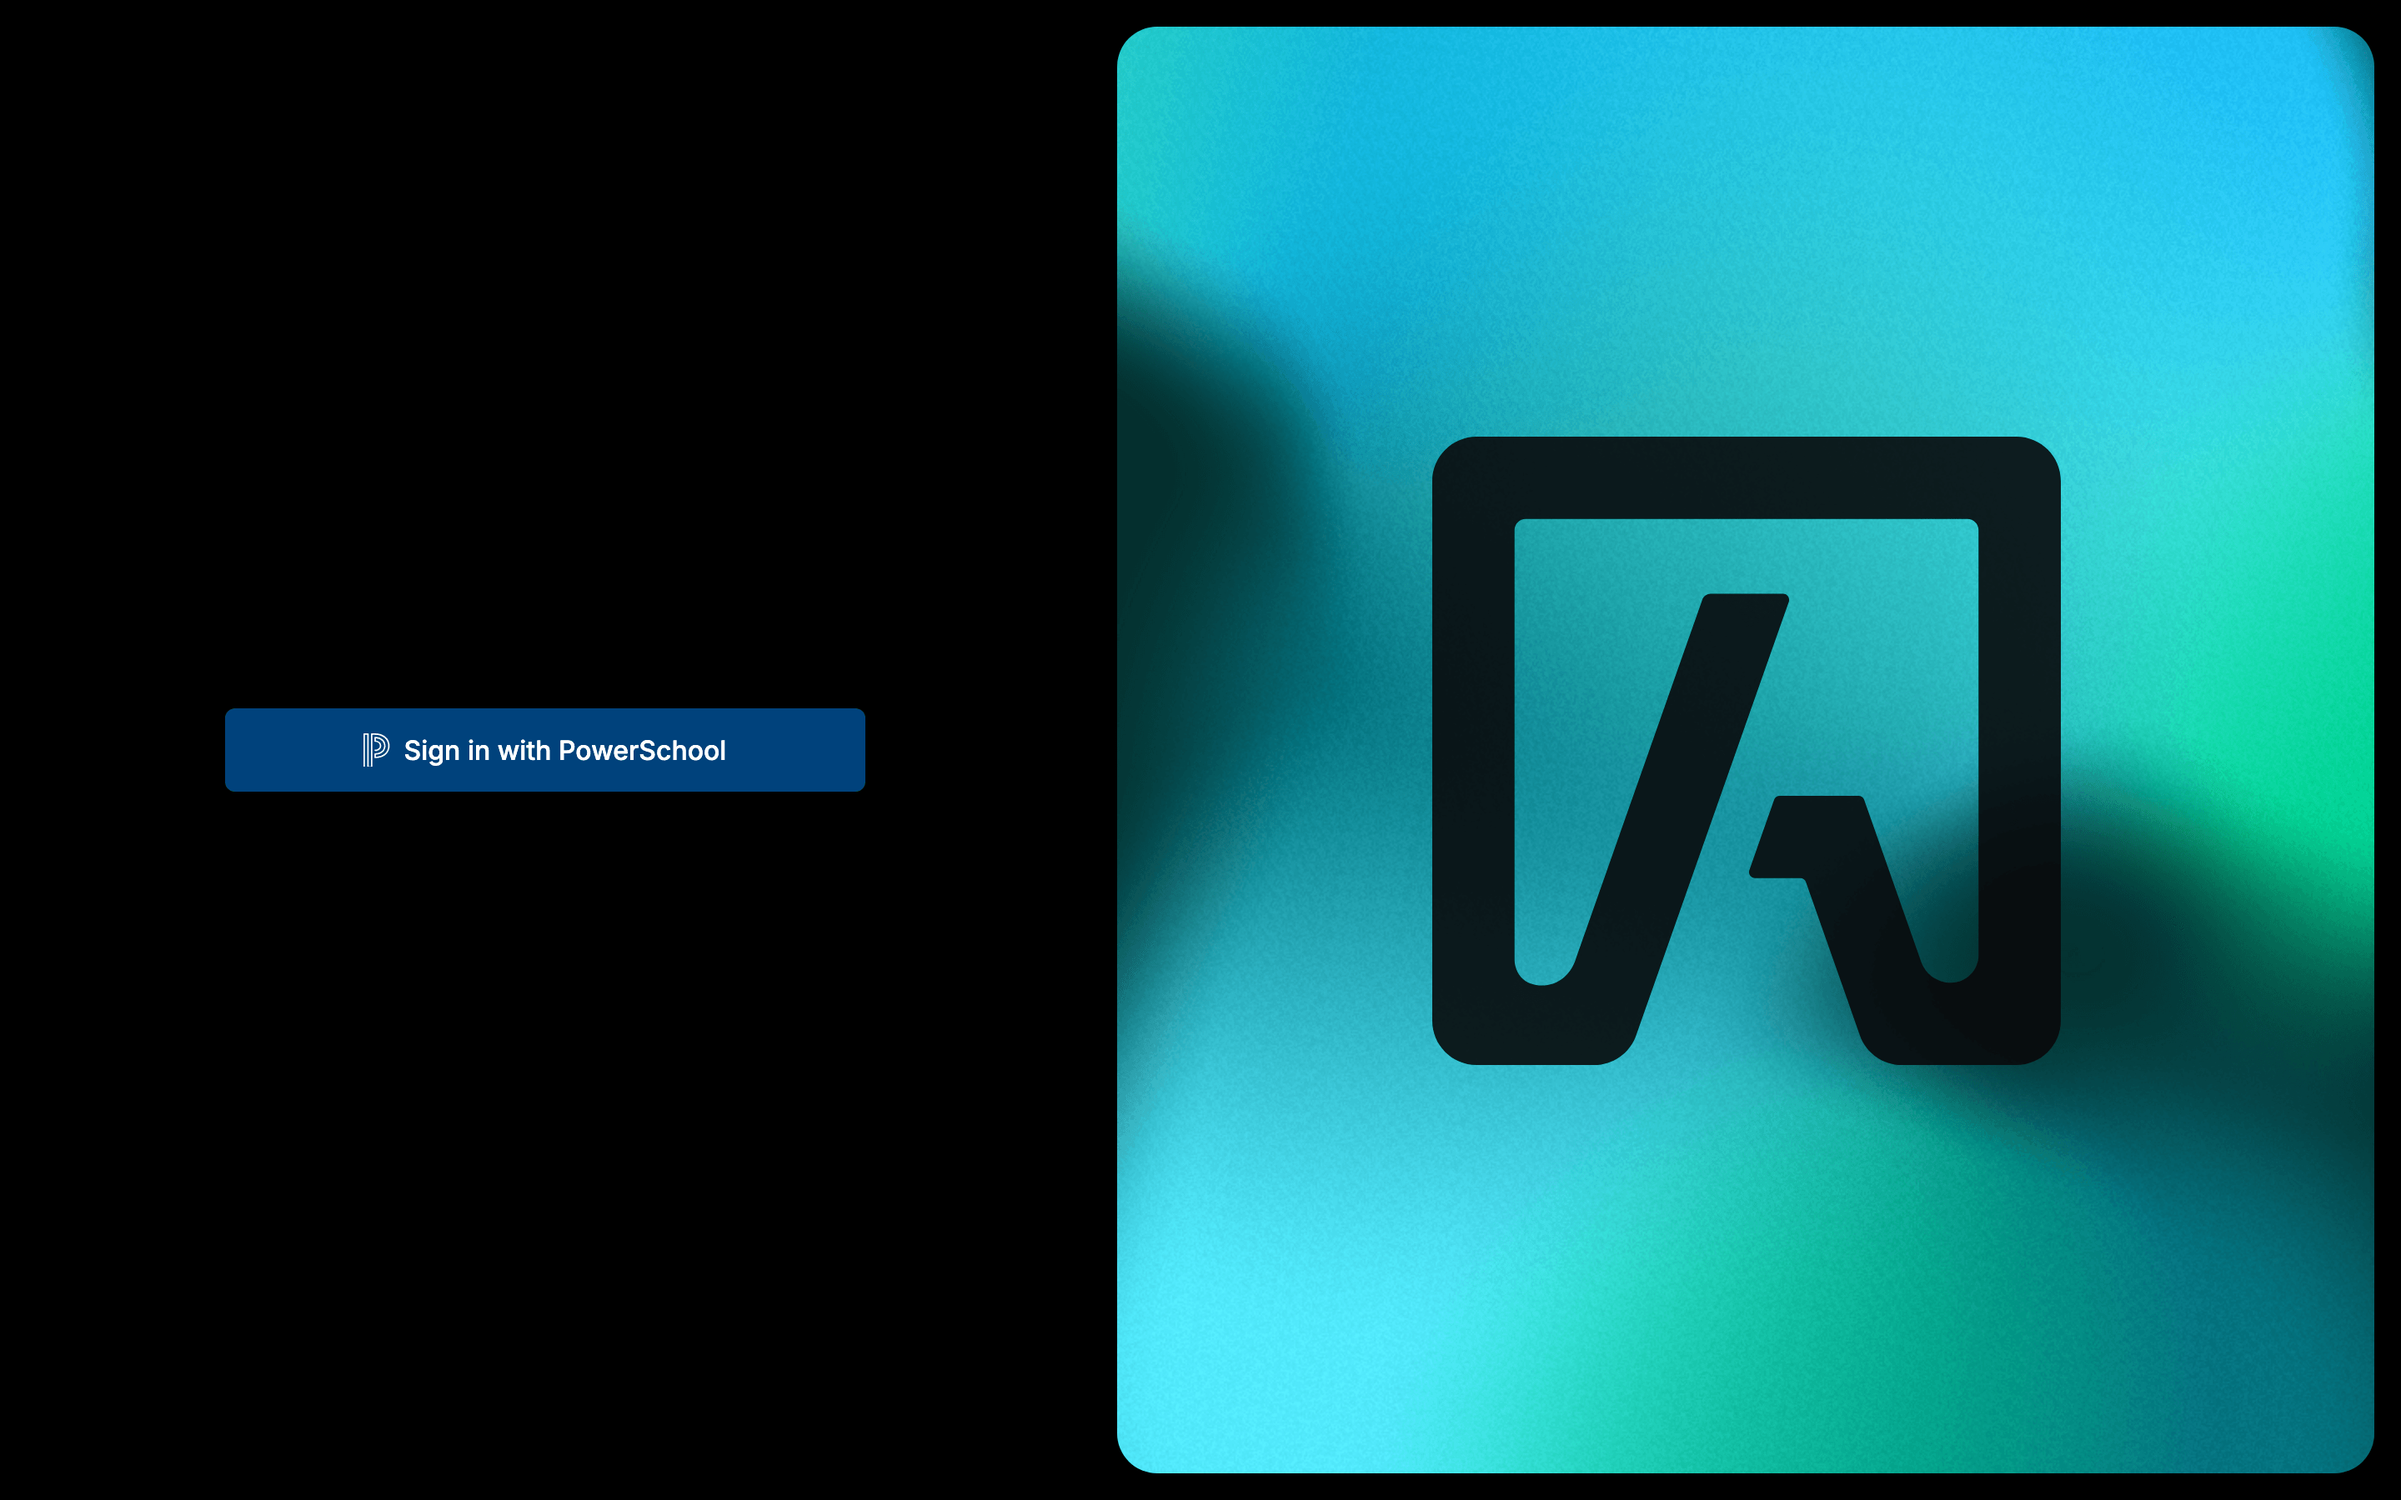
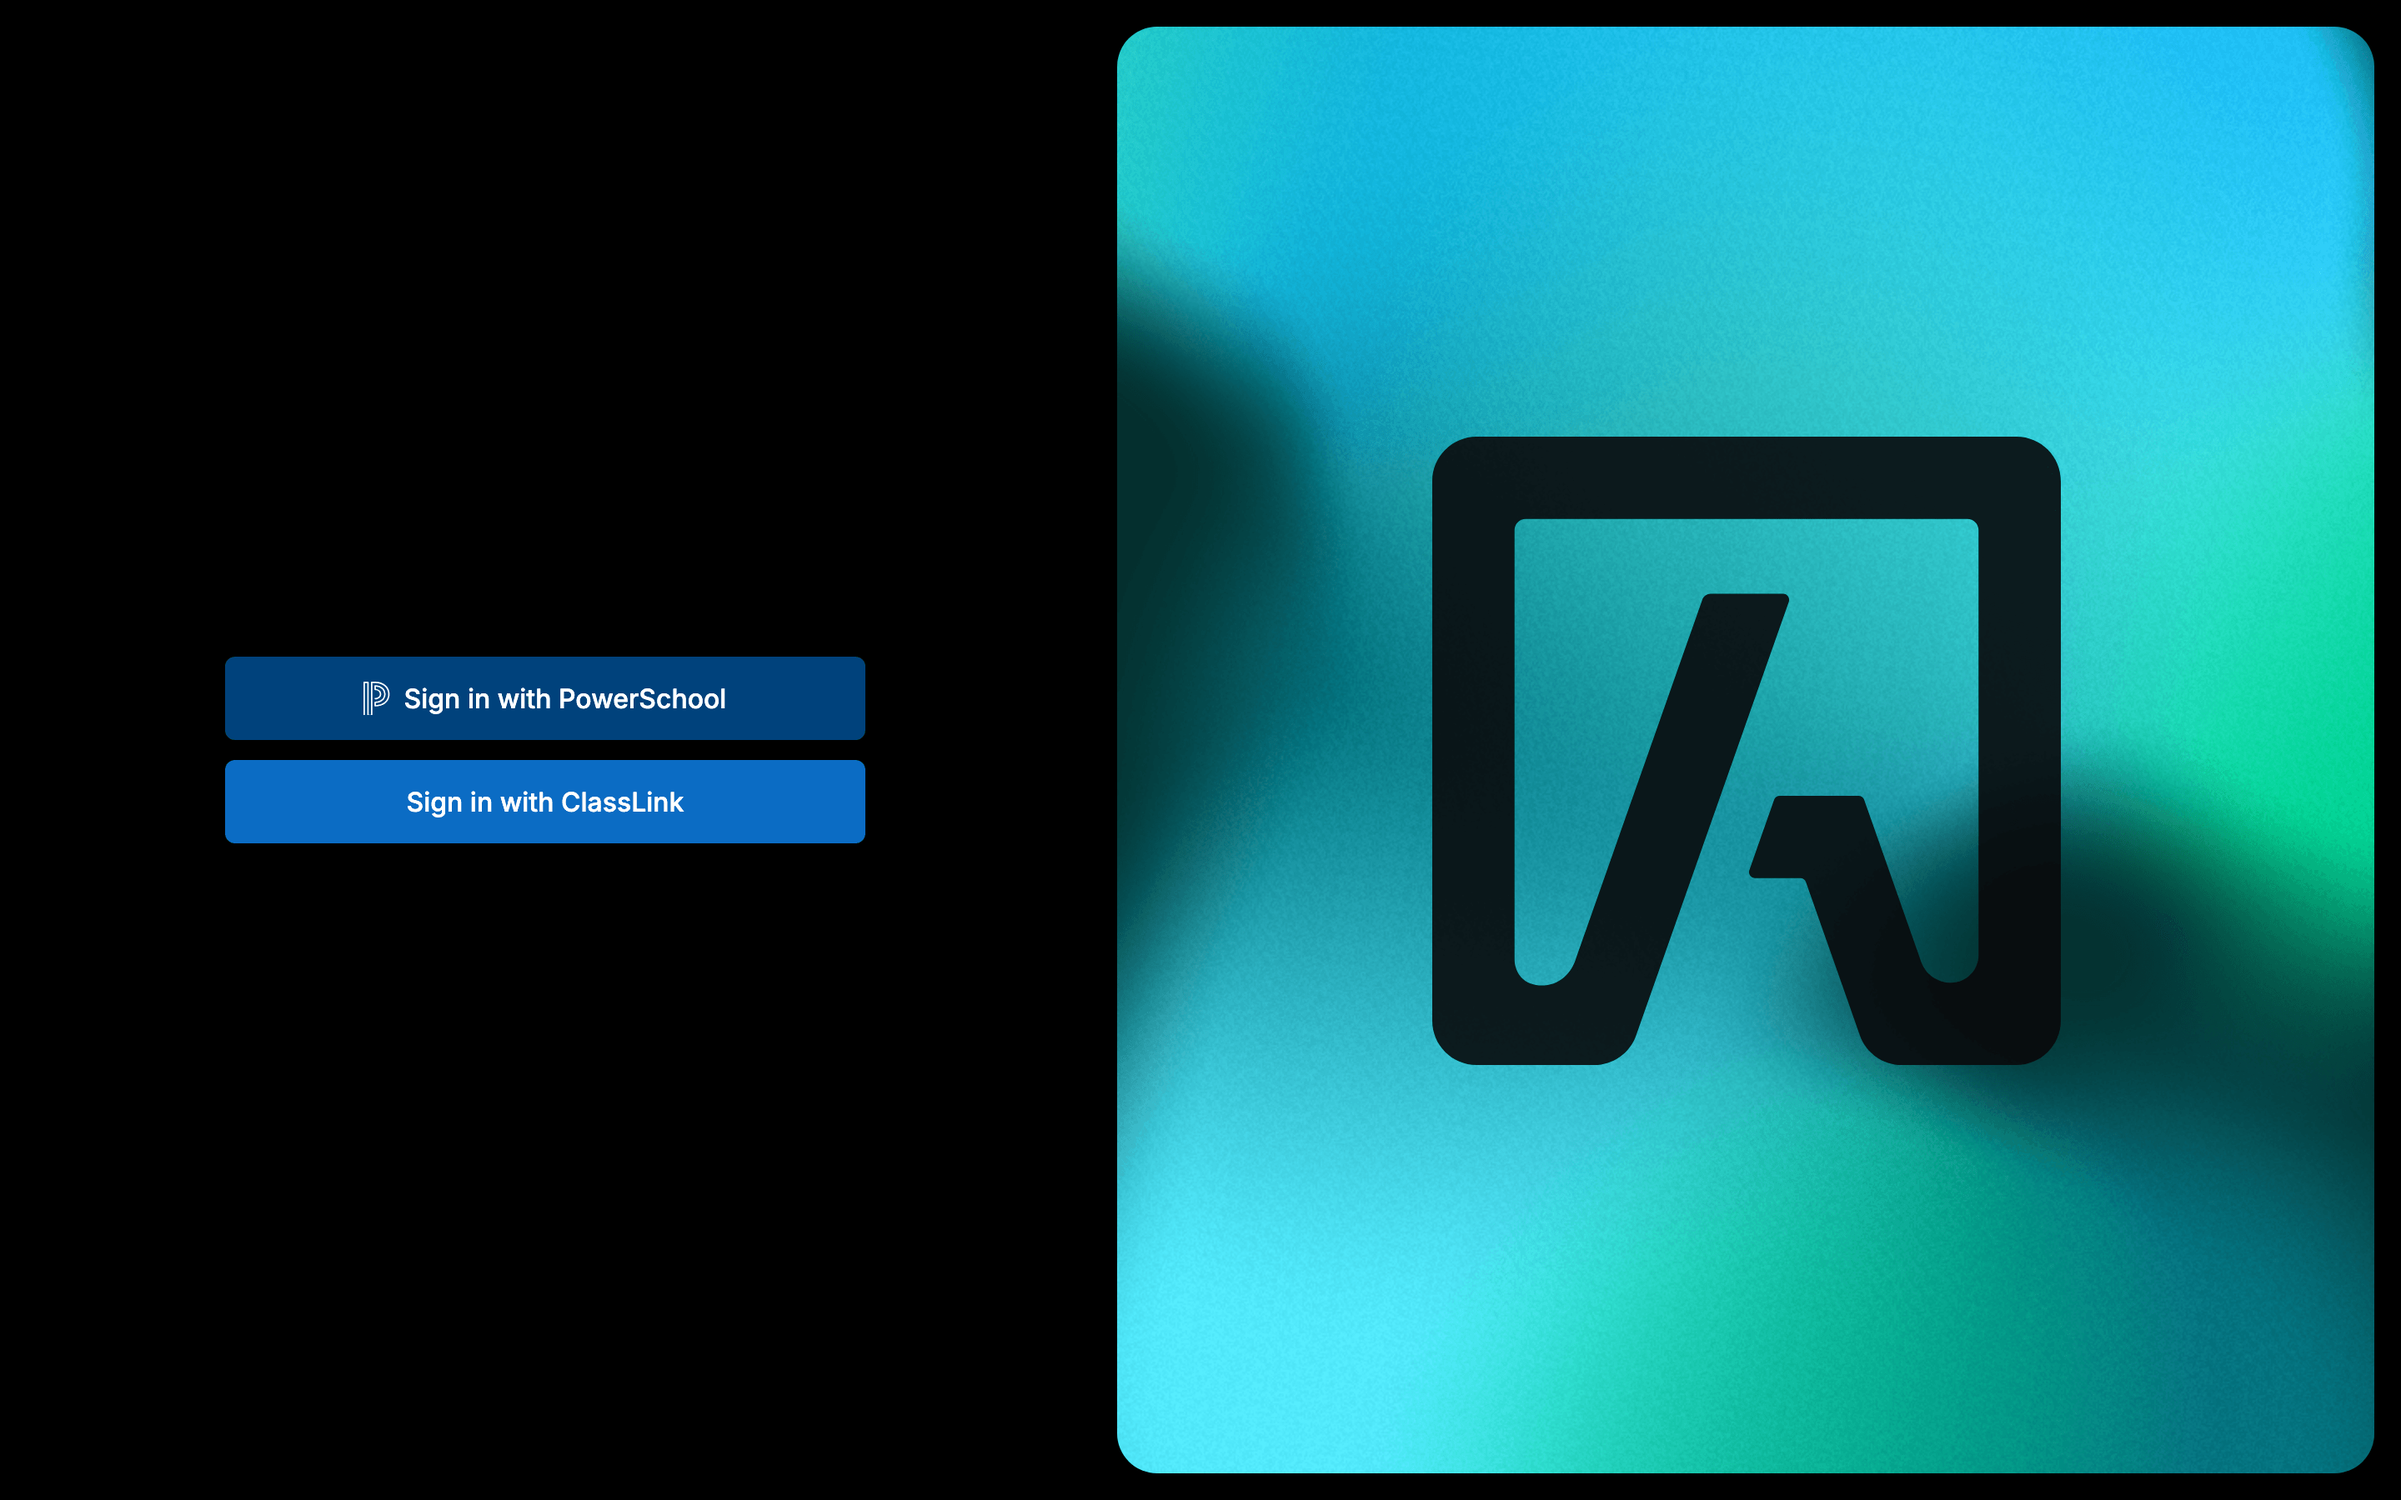
Document ClassLink sign-in

Changed region(s): [[0.0938, 0.4356, 0.375, 0.56]]

diff --git a/docs/scripts/screenshots.ts b/docs/scripts/screenshots.ts
@@ -31,14 +31,14 @@ type Shot = {
   path: string;
   /** Runs after the page loads, e.g. to open a modal or follow the first row. */
   action?: (page: Page) => Promise<void>;
-  /** Swaps the tenant to PowerSchool sign-in only for this shot. DemoSeeder has password on and OIDC off. */
+  /** Swaps the tenant to PowerSchool and ClassLink sign-in only for this shot. DemoSeeder has password on and OIDC off. */
   ssoOnly?: boolean;
 };
 
 /** Needs the app's PHP CLI against the same database the target URL uses. */
 const setSsoOnly = (ssoOnly: boolean) => execFileSync('php', [
   'artisan', 'tinker', '--execute',
-  `App\\Models\\Tenant::query()->update(["allow_oidc_login" => ${ssoOnly}, "allow_password_auth" => ${!ssoOnly}]);`,
+  `App\\Models\\Tenant::query()->update(["allow_oidc_login" => ${ssoOnly}, "allow_password_auth" => ${!ssoOnly}, "classlink_tenant_id" => ${ssoOnly ? '"demo-district"' : 'null'}]);`,
 ], { cwd: new URL('../../', import.meta.url) });
 
 /** Accepting the timezone prompt while browsing locally changes a demo user's timezone, which makes the prompt cover their shots. */

diff --git a/INSTALLATION-VM.md b/INSTALLATION-VM.md
@@ -314,6 +314,8 @@ echo '* * * * * cd /var/www/tidal-ptc && php artisan schedule:run >> /dev/null 2
 
 Visit `https://ptc.example.org/install`. The installer walks you through downloading the PowerSchool plugin, entering the tenant details and creating the first administrator.
 
+Optional: tick **Enable ClassLink sign-in** on the install page and enter your license key to let people sign in with ClassLink. The site must be reachable over HTTPS from the internet, and `/.well-known/auth-broker-challenge/tidal-ptc` must not be blocked or redirected by your proxy.
+
 ## 11. Day-to-day operations
 
 Run app commands as the `tidal` user: `sudo -iu tidal`, then `cd /var/www/tidal-ptc`.

diff --git a/README.md b/README.md
@@ -10,6 +10,7 @@ Tidal PTC (parent-teacher conferences) is [Archboard's](https://archboard.io) fi
 ## Features
 
 - **PowerSchool integration.** Install the plugin and students, teachers and contacts sync automatically, with single sign-on for everyone. No CSV exports or temporary passwords.
+- **ClassLink sign-in.** Staff and guardians can sign in with ClassLink. Roster sync is planned.
 - **Flexible time slots.** A wide range of configuration options for how slots are created, booked and managed.
 - **Translators.** Families can request a translator, and admins manage the requests.
 - **Online meetings.** Conferences can be held online as well as in person.

diff --git a/INSTALLATION.md b/INSTALLATION.md
@@ -277,6 +277,8 @@ Clone the repository into `/opt/tidal-ptc` and run the setup script there (or pa
 
 Visit `https://ptc.example.org/install`. The installer walks you through downloading the PowerSchool plugin, entering the tenant details and creating the first administrator.
 
+Optional: tick **Enable ClassLink sign-in** on the install page and enter your license key to let people sign in with ClassLink. The site must be reachable over HTTPS from the internet, and `/.well-known/auth-broker-challenge/tidal-ptc` must not be blocked or redirected by your proxy.
+
 ## 5. Day-to-day operations
 
 | Task | Command (from `/opt/tidal-ptc`) |
